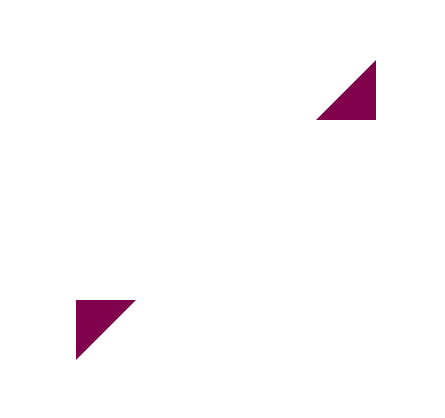
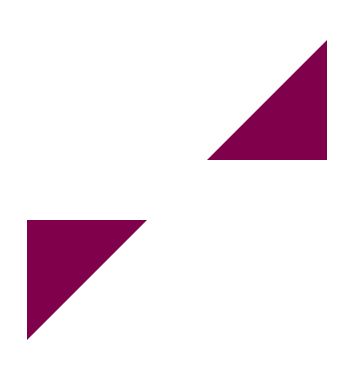
example of animation

Changed region(s): [[0.0613, 0.5898, 0.3983, 0.9142], [0.5822, 0.118, 0.9192, 0.4424], [0.766, 0.2064, 0.7967, 0.2359]]

diff --git a/examples/04-animate/src/main.rs b/examples/04-animate/src/main.rs
@@ -1,11 +1,58 @@
-use limelight::{
-    vertex_attribute, AttributeBuffer, BufferUsageHint, DrawMode, GlProgram, Program, Renderer,
-};
+use std::rc::Rc;
+use limelight::{AttributeBuffer, BufferUsageHint, DrawMode, GlProgram, Program, Renderer, Uniform, vertex_attribute};
 use wasm_bindgen::JsCast;
 use web_sys::{HtmlCanvasElement, WebGl2RenderingContext};
 use yew::services::render::RenderTask;
 use yew::services::RenderService;
 use yew::{html, Component, ComponentLink, Html, NodeRef, ShouldRender};
+
+struct Animation {
+    program: GlProgram<VertexDescription>,
+    buffer: AttributeBuffer<VertexDescription>,
+    uniform: Rc<Uniform<[f32; 3]>>,
+}
+
+impl Animation {
+    pub fn new(gl: &WebGl2RenderingContext) -> Self {
+        let buffer = AttributeBuffer::new(BufferUsageHint::DynamicDraw);
+        let uniform = Uniform::new([0., 0., 0.]);
+
+        let program = Program::new(
+            include_str!("../shaders/shader.frag"),
+            include_str!("../shaders/shader.vert"),
+            DrawMode::Triangles,
+        )
+        .with_uniform("u_color", uniform.clone())
+        .gpu_init(&gl)
+        .unwrap();       
+        
+        Animation {
+            buffer,
+            program,
+            uniform
+        }
+    }
+
+    pub fn render(&mut self, time: f64, renderer: &Renderer) {
+        let theta1 = time as f32 / 1000.;
+        let theta2 = theta1 + (std::f32::consts::TAU / 3.);
+        let theta3 = theta2 + (std::f32::consts::TAU / 3.);
+        
+        self.buffer.set_data(vec![
+            VertexDescription::new(theta1.cos(), theta1.sin()),
+            VertexDescription::new(theta2.cos(), theta2.sin()),
+            VertexDescription::new(theta3.cos(), theta3.sin()),
+        ]);
+
+        let r = (time as f32 / 3000.).sin() / 2. + 0.5;
+        let g = (time as f32 / 5000.).sin() / 2. + 0.5;
+        let b = (time as f32 / 7000.).sin() / 2. + 0.5;
+
+        self.uniform.set_value([r, g, b]);
+
+        renderer.render(&self.program, &self.buffer).unwrap();
+    }
+}
 
 #[vertex_attribute]
 struct VertexDescription {
@@ -24,10 +71,9 @@ enum Msg {
 
 struct Model {
     link: ComponentLink<Self>,
-    buffer: AttributeBuffer<VertexDescription>,
     canvas_ref: NodeRef,
     renderer: Option<Renderer>,
-    program: Option<GlProgram<VertexDescription>>,
+    animation: Option<Animation>,
     render_handle: Option<RenderTask>,
 }
 
@@ -36,15 +82,12 @@ impl Component for Model {
     type Properties = ();
 
     fn create(_props: Self::Properties, link: ComponentLink<Self>) -> Self {
-        let buffer = AttributeBuffer::new(BufferUsageHint::DynamicDraw);
-
         Self {
             link,
-            buffer,
             canvas_ref: NodeRef::default(),
             render_handle: None,
             renderer: None,
-            program: None,
+            animation: None,
         }
     }
 
@@ -57,16 +100,7 @@ impl Component for Model {
             .dyn_into()
             .unwrap();
 
-        self.program = Some(
-            Program::new(
-                include_str!("../shaders/shader.frag"),
-                include_str!("../shaders/shader.vert"),
-                DrawMode::Triangles,
-            )
-            .gpu_init(&gl)
-            .unwrap(),
-        );
-
+        self.animation = Some(Animation::new(&gl));
         self.renderer = Some(Renderer::new(gl));
 
         self.render_handle = Some(RenderService::request_animation_frame(
@@ -77,24 +111,10 @@ impl Component for Model {
     fn update(&mut self, msg: Self::Message) -> ShouldRender {
         match msg {
             Msg::Render(ts) => {
-                let ts = ts / 1000.;
-                self.buffer.set_data(vec![
-                    VertexDescription::new(0.5 * ts.cos() as f32, 0.5 * ts.sin() as f32),
-                    VertexDescription::new(
-                        0.5 * (ts + 2.0).cos() as f32,
-                        0.5 * (ts + 2.0).sin() as f32,
-                    ),
-                    VertexDescription::new(
-                        0.5 * (ts + 4.0).cos() as f32,
-                        0.5 * (ts + 4.0).sin() as f32,
-                    ),
-                ]);
-
                 if let Some(renderer) = self.renderer.as_ref() {
-                    renderer
-                        .render(self.program.as_ref().unwrap(), &self.buffer)
-                        .unwrap();
-                    renderer.get_error().unwrap();
+                    if let Some(animation) = &mut self.animation {
+                        animation.render(ts, renderer);
+                    }
                 }
 
                 self.render_handle = Some(RenderService::request_animation_frame(

diff --git a/examples/02-buffer/src/main.rs b/examples/02-buffer/src/main.rs
@@ -29,16 +29,16 @@ fn render_triangles(gl: WebGl2RenderingContext) {
     let renderer = Renderer::new(gl);
 
     let mut buffer: AttributeBuffer<VertexDescription> =
-        AttributeBuffer::new(BufferUsageHint::DynamicDraw);
+        AttributeBuffer::new(BufferUsageHint::StaticDraw);
 
     buffer.set_data(vec![
         // Triangle #1.
-        VertexDescription::new(-0.3, -0.3),
-        VertexDescription::new(-0.5, -0.3),
+        VertexDescription::new(-0.1, -0.1),
+        VertexDescription::new(-0.5, -0.1),
         VertexDescription::new(-0.5, -0.5),
         // Triangle #2.
-        VertexDescription::new(0.3, 0.3),
-        VertexDescription::new(0.5, 0.3),
+        VertexDescription::new(0.1, 0.1),
+        VertexDescription::new(0.5, 0.1),
         VertexDescription::new(0.5, 0.5),
     ]);
 

diff --git a/README.md b/README.md
@@ -114,18 +114,17 @@ fn render_triangles(gl: WebGl2RenderingContext) {
 
   // Declare a buffer.
   let mut buffer: AttributeBuffer<VertexDescription> =
-    AttributeBuffer::new(BufferUsageHint::DynamicDraw);
+    AttributeBuffer::new(BufferUsageHint::StaticDraw);
 
   buffer.set_data(vec![
-    // Triangle #1.
-    VertexDescription::new(-0.3, -0.3),
-    VertexDescription::new(-0.5, -0.3),
-    VertexDescription::new(-0.5, -0.5),
-
-    // Triangle #2.
-    VertexDescription::new(0.3, 0.3),
-    VertexDescription::new(0.5, 0.3),
-    VertexDescription::new(0.5, 0.5),
+      // Triangle #1.
+      VertexDescription::new(-0.1, -0.1),
+      VertexDescription::new(-0.5, -0.1),
+      VertexDescription::new(-0.5, -0.5),
+      // Triangle #2.
+      VertexDescription::new(0.1, 0.1),
+      VertexDescription::new(0.5, 0.1),
+      VertexDescription::new(0.5, 0.5),
   ]);
 
   renderer.render(&program, &buffer).unwrap();
@@ -151,7 +150,7 @@ fn render_triangles_with_uniform(gl: WebGl2RenderingContext) {
     // This will correspond to "uniform float u_rotate" in the vertex shader.
     let rotate_uniform = Uniform::new(std::f32::consts::PI / 3.4);
     
-    // This will correspond to "uniform vec2 u_rotate" in the vertex shader.
+    // This will correspond to "uniform vec2 u_scale" in the vertex shader.
     let scale_uniform = Uniform::new([0.5, 0.8]);
 
     // This will correspond to "uniform vec3 u_color" in the fragment shader.
@@ -211,4 +210,81 @@ fn render_triangles_with_uniform(gl: WebGl2RenderingContext) {
 }
 ```
 
-### TODO: structuring animation
+### Animation
+
+([full code](https://github.com/drifting-in-space/limelight/tree/main/examples/04-animate),
+[demo](https://drifting-in-space.github.io/limelight/04-animate/))
+
+The previous examples have rendered static images, so we haven't had a need to separate code
+that sets up the initial data structures from code that updates GPU-side data and triggers an
+animation. In this example, we separate the code into a `new()` method that is called once,
+and a `render` method that is called on every frame.
+
+limelight is not a framework, and in order to integrate with other frameworks, it is not opinionated
+on how you structure your code. This example shows one way you might choose to structure code for
+a simple animation.
+
+```rust
+use limelight::{AttributeBuffer, BufferUsageHint, DrawMode, GlProgram, Program, Renderer, Uniform, vertex_attribute};
+use web_sys::WebGl2RenderingContext;
+use std::rc::Rc;
+
+struct Animation {
+    program: GlProgram<VertexDescription>,
+    buffer: AttributeBuffer<VertexDescription>,
+    uniform: Rc<Uniform<[f32; 3]>>,
+}
+
+impl Animation {
+    pub fn new(gl: &WebGl2RenderingContext) -> Self {
+        let buffer = AttributeBuffer::new(BufferUsageHint::DynamicDraw);
+        let uniform = Uniform::new([0., 0., 0.]);
+
+        let program = Program::new(
+            include_str!("../../examples/04-animate/shaders/shader.frag"),
+            include_str!("../../examples/04-animate/shaders/shader.vert"),
+            DrawMode::Triangles,
+        )
+        .with_uniform("u_color", uniform.clone())
+        .gpu_init(&gl)
+        .unwrap();       
+        
+        Animation {
+            buffer,
+            program,
+            uniform
+        }
+    }
+
+    pub fn render(&mut self, time: f64, renderer: &Renderer) {
+        let theta1 = time as f32 / 1000.;
+        let theta2 = theta1 + (std::f32::consts::TAU / 3.);
+        let theta3 = theta2 + (std::f32::consts::TAU / 3.);
+        
+        self.buffer.set_data(vec![
+            VertexDescription::new(theta1.cos(), theta1.sin()),
+            VertexDescription::new(theta2.cos(), theta2.sin()),
+            VertexDescription::new(theta3.cos(), theta3.sin()),
+        ]);
+
+        let r = (time as f32 / 3000.).sin() / 2. + 0.5;
+        let g = (time as f32 / 5000.).sin() / 2. + 0.5;
+        let b = (time as f32 / 7000.).sin() / 2. + 0.5;
+
+        self.uniform.set_value([r, g, b]);
+
+        renderer.render(&self.program, &self.buffer).unwrap();
+    }
+}
+
+#[vertex_attribute]
+struct VertexDescription {
+    position: [f32; 2],
+}
+
+impl VertexDescription {
+    pub fn new(x: f32, y: f32) -> Self {
+        VertexDescription { position: [x, y] }
+    }
+}
+```
